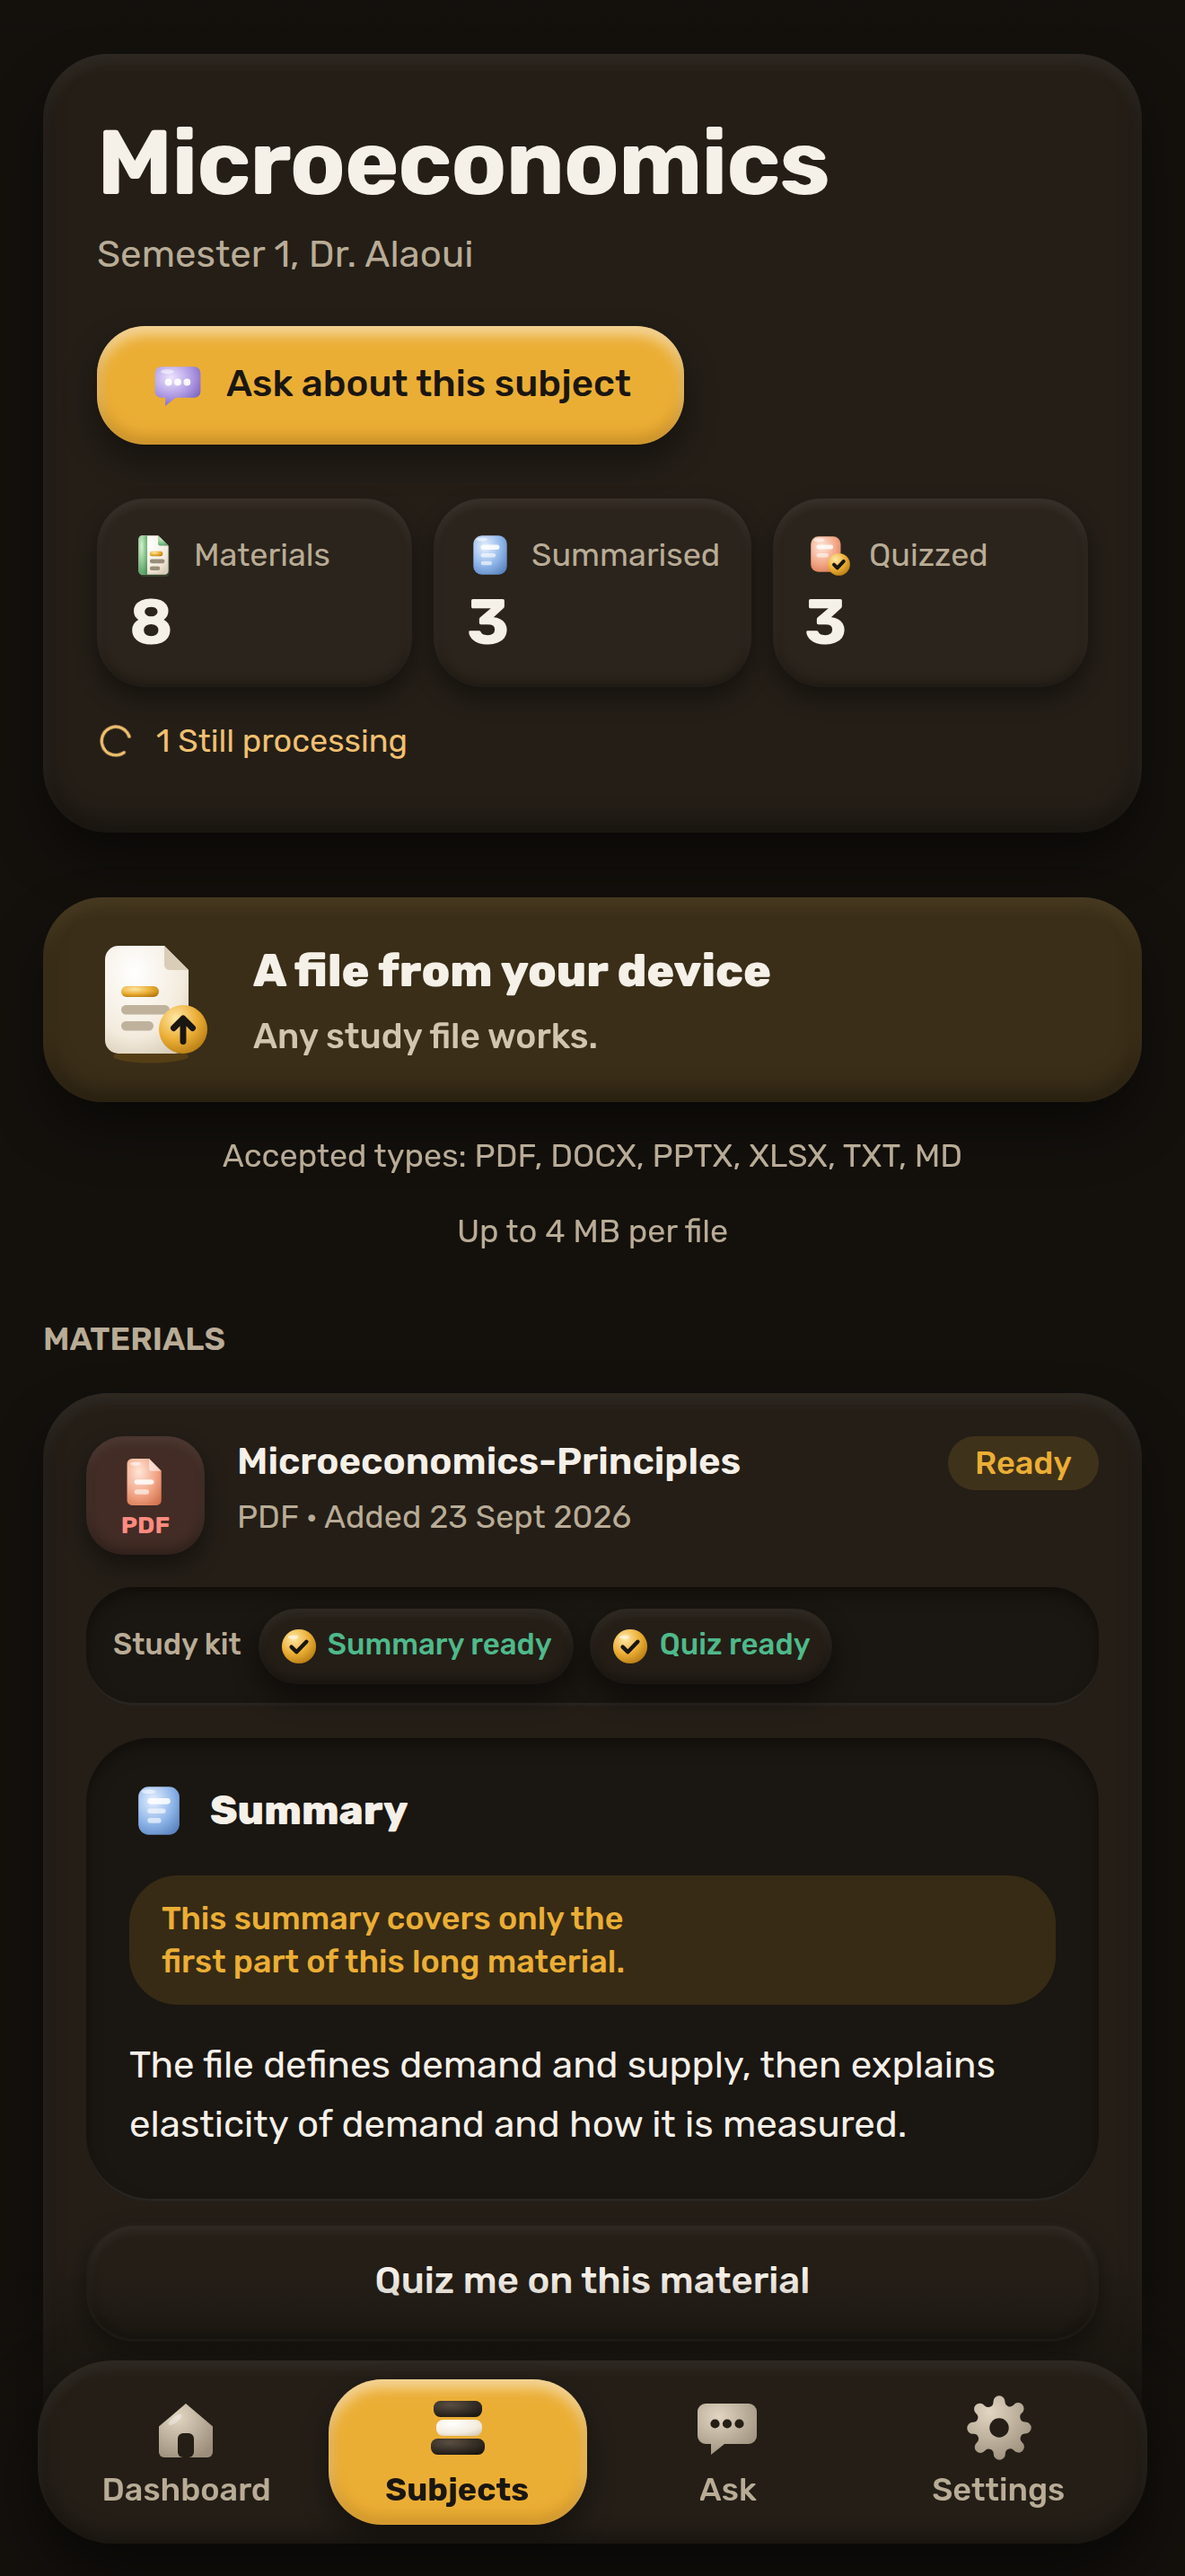
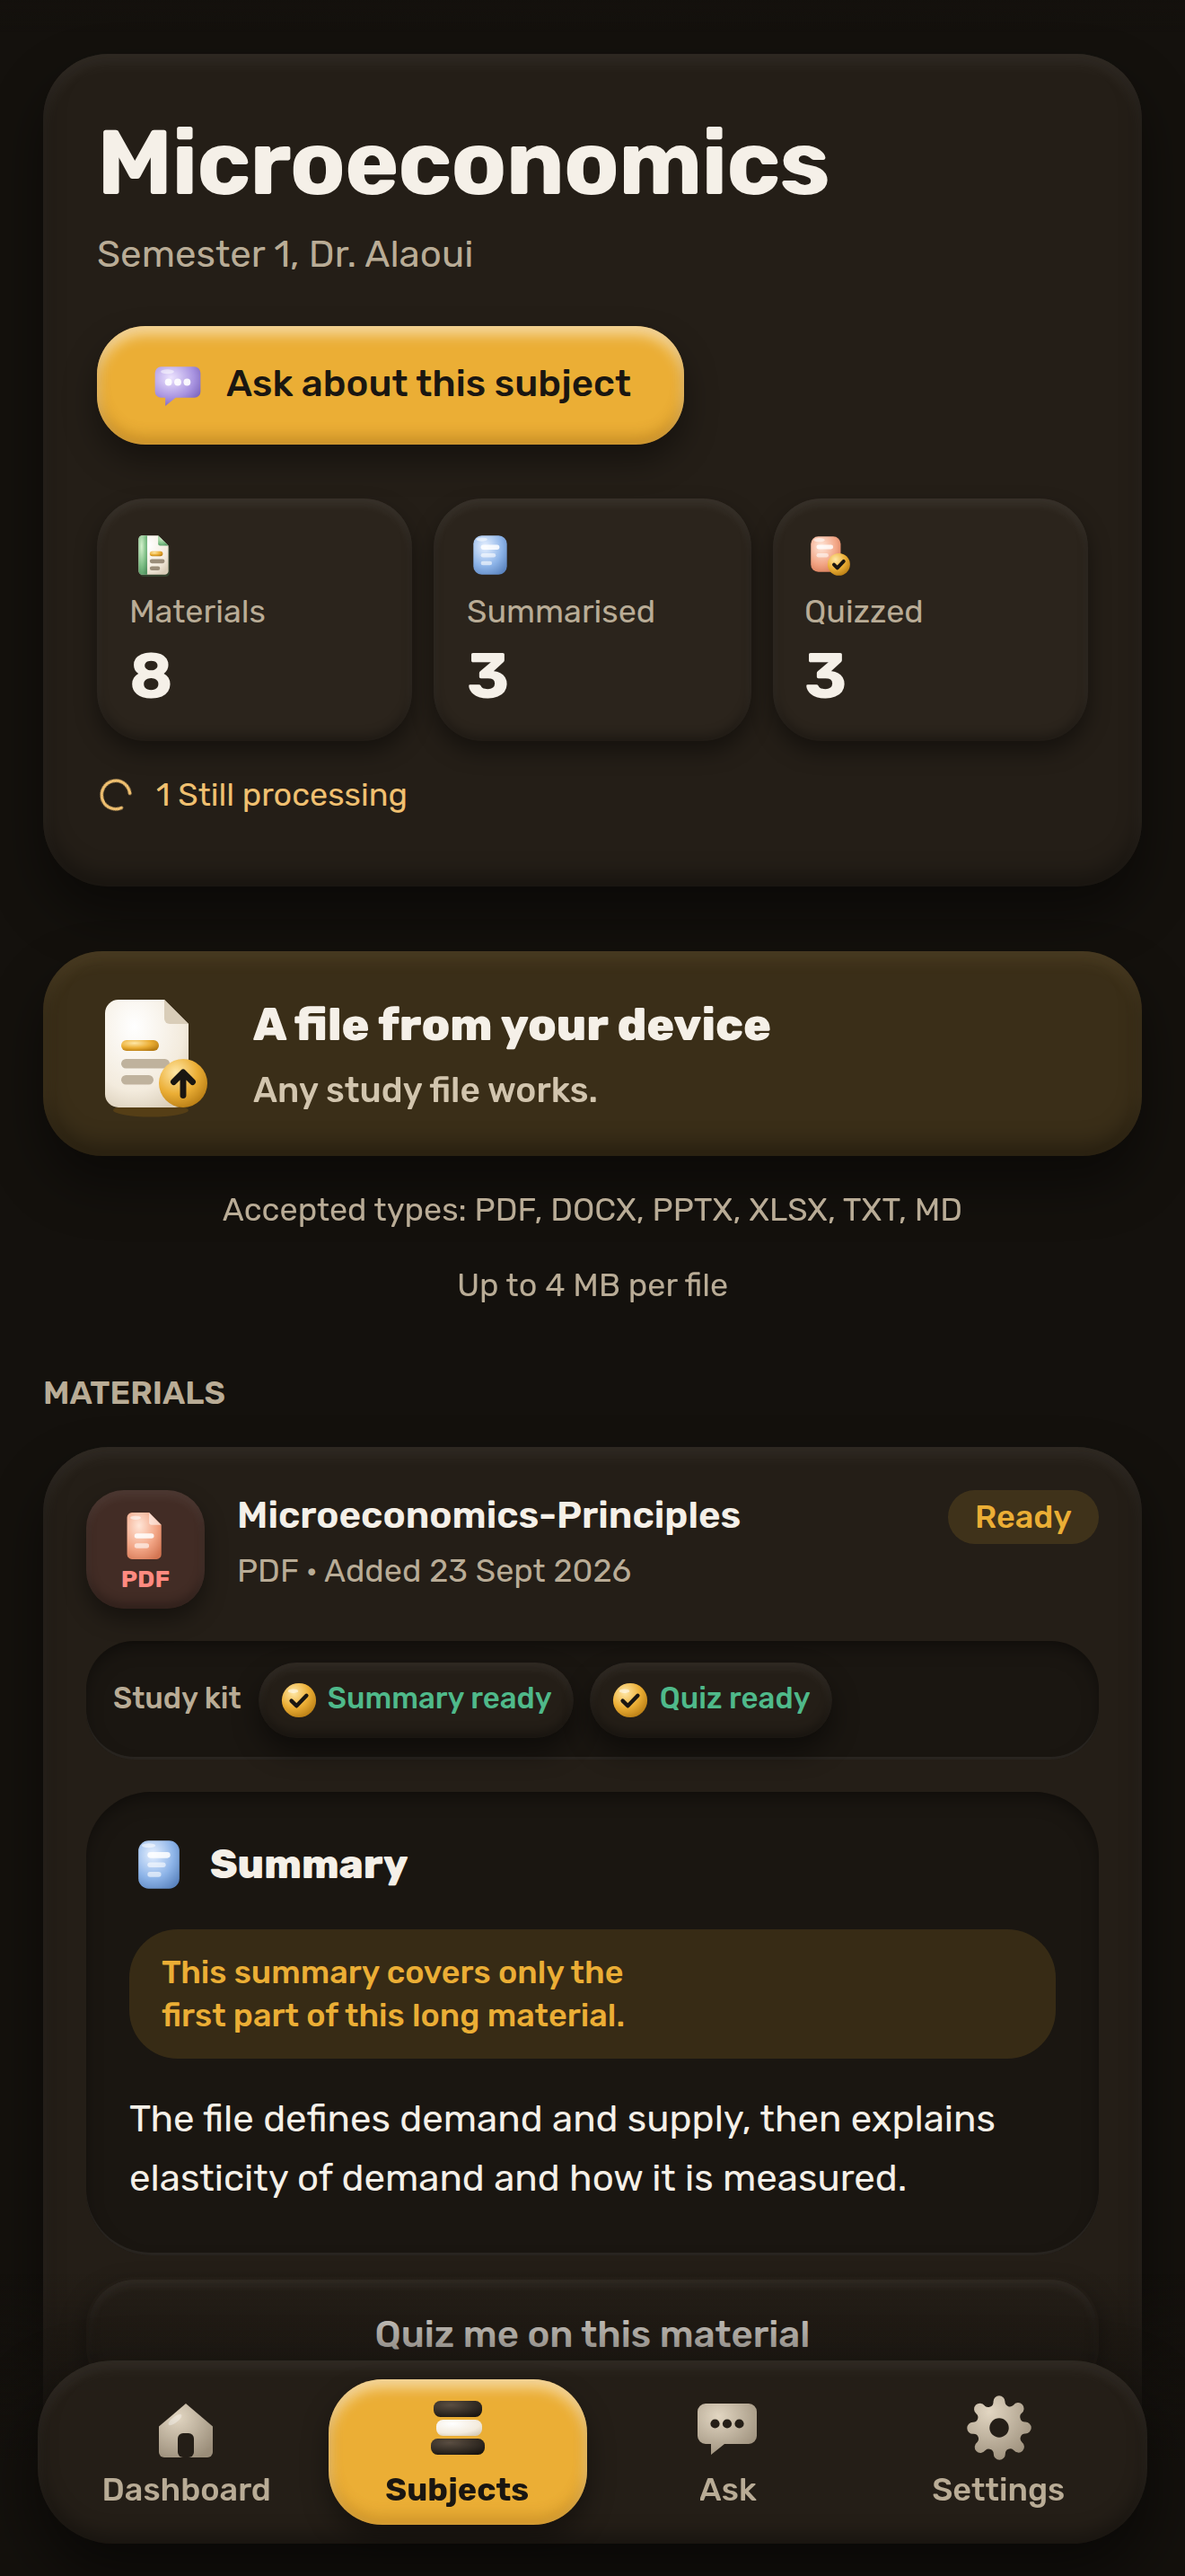
Android 360: stat numbers on one bottom, ready question never cut, sign-up note never ends on a word alone; design-c draws 360 (#328)
* Android 360: stat numbers on one bottom, the ready question never cut, the sign-up note never ends on a word alone; design-c draws the touched screens at 360 with checks 19 and 20

* design-c.yml: name the Android 360 screens in the header

* Sign-up note keeps its last three words ("كلمة مرور جديدة"); check 20 fails on a split term, an overflow or a kept piece that does not fit; KF_DESIGN_C_ONLY refused in CI

- signup/page.tsx: keepLastTwo -> keepLastThree. Two words split "كلمة مرور"
  across lines at 360 (owner's review of #328); en keeps "Reset your password".
- android360.mjs: check 20 also flags "كلمة" and "مرور" on different lines, a
  note wider than its box and a kept piece outside the note; new forced case
  signupTermPlant (a line break inside the term) on Arabic AFTER renders.
- render.mjs: the run exits 1 at start when KF_DESIGN_C_ONLY is set with
  CI=true or GITHUB_ACTIONS=true; the term forced case is a run-wide assertion.

* redesign-built: the four subject screenshots re-taken from CI run 43659528946 (stat tiles: icon above label below sm, owner accepted)

Only the reference PNGs change; they are CI's own fresh renders of 2cfa2b2,
copied byte for byte from the run's redesign-built artifact.

* redesign3-renders: the four empty-subject screenshots re-taken from CI run 43663711348 (stat tiles: icon above label below sm, owner accepted)

Only the reference PNGs change; they are CI's own fresh renders of 5eefb05,
[…]

diff --git a/src/app/[locale]/signup/page.tsx b/src/app/[locale]/signup/page.tsx
@@ -263,17 +263,40 @@ export default function SignupPage({ params }: { params: Promise<{ locale: Local
               open on this path. So the line is shown to everyone and reveals
               nothing about anyone.
             */}
-            <p className="mt-1 text-xs leading-relaxed text-muted-foreground">
+            <p data-kf-signup-note="" className="mt-1 text-xs leading-relaxed text-muted-foreground">
               {t.auth.signupRepeatPassword}{' '}
               <Link
                 href={`/${locale}/forgot-password`}
                 className="font-medium text-foreground underline underline-offset-2 transition-colors hover:text-accent"
               >
-                {t.auth.signupRepeatPasswordLink}
+                {keepLastThree(t.auth.signupRepeatPasswordLink)}
               </Link>
             </p>
         </div>
       </form>
     </div>
+  );
+}
+
+/**
+ * The link's last three words drawn as one unbreakable piece, so the note never
+ * ends on a word alone and never splits a phrase: at 360 pt the Arabic link
+ * left "جديدة" by itself (Android 360 audit, 2026-11-12), and keeping only two
+ * words then split "كلمة مرور" (password) across lines (owner's review of
+ * #328). Three words keep "كلمة مرور جديدة" and "Reset your password" whole.
+ * No character changes (no no-break space): the text read by every check and
+ * by the reviewer is the dictionary's own.
+ */
+function keepLastThree(text: string) {
+  let cut = text.length;
+  for (let i = 0; i < 3; i++) {
+    cut = cut > 0 ? text.lastIndexOf(' ', cut - 1) : -1;
+    if (cut < 0) return text;
+  }
+  return (
+    <>
+      {text.slice(0, cut + 1)}
+      <span data-kf-keep="" className="whitespace-nowrap">{text.slice(cut + 1)}</span>
+    </>
   );
 }

diff --git a/src/components/materials/SubjectHeader.tsx b/src/components/materials/SubjectHeader.tsx
@@ -60,13 +60,17 @@ export function SubjectHeader({
       </div>
       <dl className="mt-5 grid grid-cols-3 gap-2 sm:max-w-md">
         {items.map(({ Icon, value, label }) => (
-          <div key={label} className="kf-tile rounded-xl bg-raised p-3">
-            <dt className="flex items-center gap-1.5 text-xs">
+          // A column: the number is pinned to the tile's bottom (mt-auto), so the
+          // numbers of one row share a baseline however many lines a label takes
+          // ("لها اختبار" wrapped at 360 and dropped its number 15 px). Below sm
+          // the icon sits above its label, as on the subjects list's Stat.
+          <div key={label} data-kf-stat="" className="kf-tile flex flex-col rounded-xl bg-raised p-3">
+            <dt className="flex flex-col items-start gap-1 text-xs sm:flex-row sm:items-center sm:gap-1.5">
               {/* A fixed box that never shrinks beside a long label (design "C", PR 3). */}
               <span data-kf-stat-icon="" className="inline-flex h-[18px] w-[18px] shrink-0"><Icon width={18} height={18} /></span>
               <span className="text-muted-foreground">{label}</span>
             </dt>
-            <dd className="mt-1 text-2xl font-bold leading-none text-foreground">{value}</dd>
+            <dd className="mt-auto pt-1 text-2xl font-bold leading-none text-foreground">{value}</dd>
           </div>
         ))}
       </dl>

diff --git a/src/components/agent/ChatBox.tsx b/src/components/agent/ChatBox.tsx
@@ -418,10 +418,13 @@ export function ChatBox({ kbId, kbName, materials = [], initialConversationId, i
             type="button"
             onClick={() => { setInput(sampleQuestion); fieldRef.current?.focus(); }}
             data-kf-sample-question=""
-            className="kf-pill pressable mt-2 inline-flex min-h-[2.75rem] max-w-full items-center gap-2 rounded-full px-4 text-start text-sm font-semibold text-foreground focus-visible:outline-none focus-visible:ring-2 focus-visible:ring-ring"
+            className="kf-pill pressable mt-2 inline-flex min-h-[2.75rem] max-w-full items-center gap-2 rounded-full px-4 py-1.5 text-start text-sm font-semibold text-foreground focus-visible:outline-none focus-visible:ring-2 focus-visible:ring-ring"
           >
             <ClaySpark width={20} height={20} className="shrink-0" />
-            <span className="min-w-0 truncate">{sampleQuestion}</span>
+            {/* Never cut: at 360 pt "...in the ce…" lost the question's end. One
+                line where it fits, else two balanced lines (no word alone); the
+                clamp is only a safety for a far narrower screen. */}
+            <span className="line-clamp-2 min-w-0 text-balance">{sampleQuestion}</span>
           </button>
         )}
         {/* Only where a keyboard is likely: md and up, and only once the platform

diff --git a/src/components/dashboard/SubjectsList.tsx b/src/components/dashboard/SubjectsList.tsx
@@ -200,7 +200,9 @@ function SubjectCard({ subject: s, locale, labels, index }: { subject: SubjectIt
 
 function Stat({ icon, value, label }: { icon: ReactNode; value: number; label: string }) {
   return (
-    <div className="kf-tile p-3">
+    // A column with the number pinned to the bottom (mt-auto): the numbers of
+    // one row share a baseline whatever lines the labels take (360 pt Android).
+    <div data-kf-stat="" className="kf-tile flex flex-col p-3">
       {/* Below sm the icon sits above its label: beside it, "Summarised" did
           not fit a third of a 390 pt card once the icon kept its size. */}
       <dt className="flex flex-col items-start gap-1 text-xs text-muted-foreground sm:flex-row sm:items-center sm:gap-1.5">
@@ -209,7 +211,7 @@ function Stat({ icon, value, label }: { icon: ReactNode; value: number; label: s
         <span data-kf-stat-icon="" className="inline-flex h-4 w-4 shrink-0">{icon}</span>
         {label}
       </dt>
-      <dd className="mt-1 text-2xl font-bold leading-none text-foreground">{value}</dd>
+      <dd className="mt-auto pt-1 text-2xl font-bold leading-none text-foreground">{value}</dd>
     </div>
   );
 }
